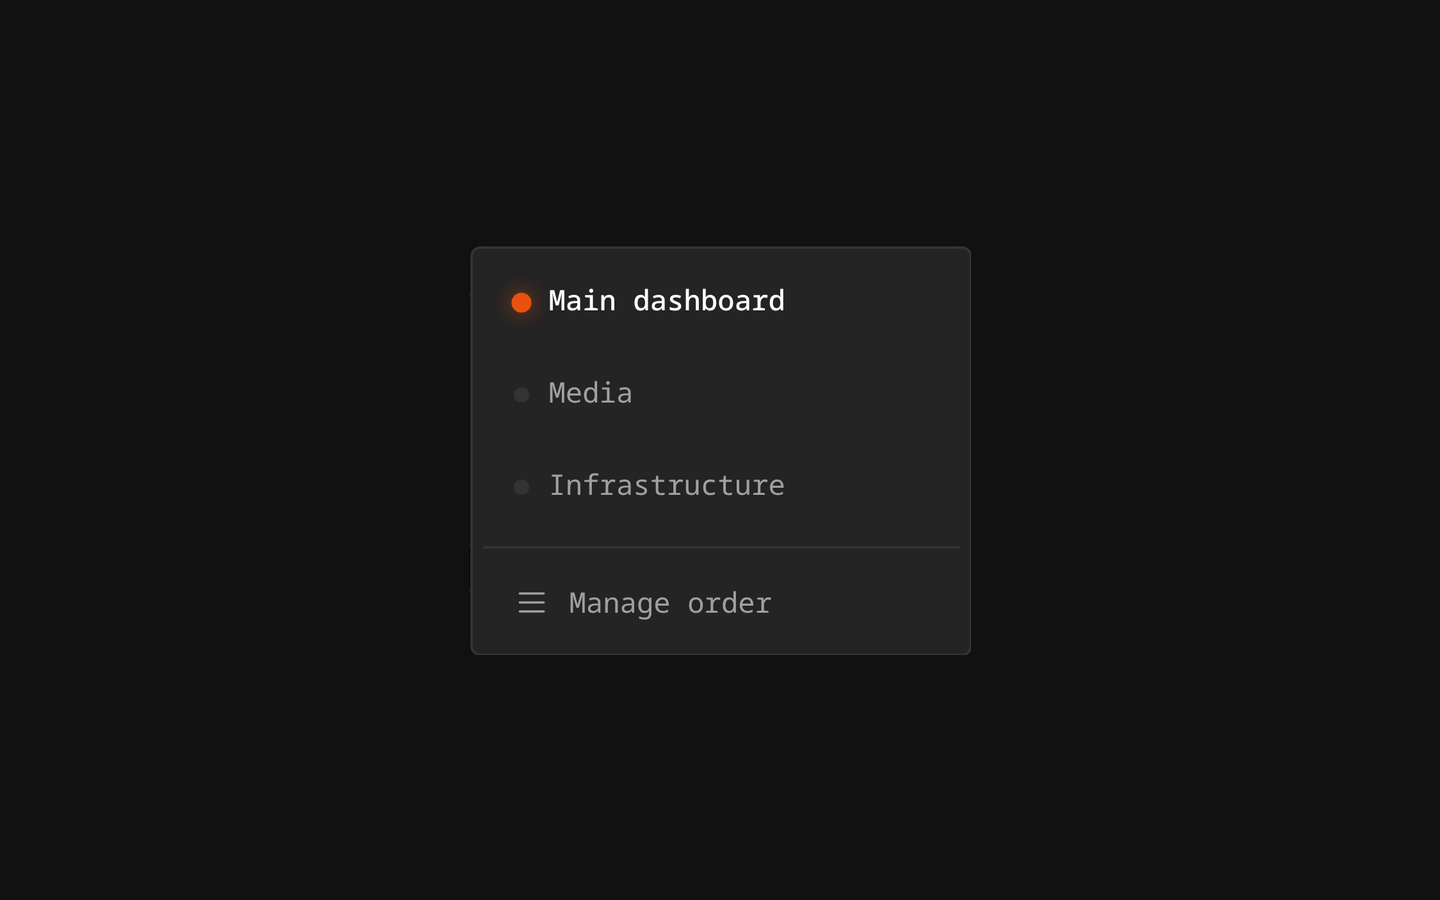
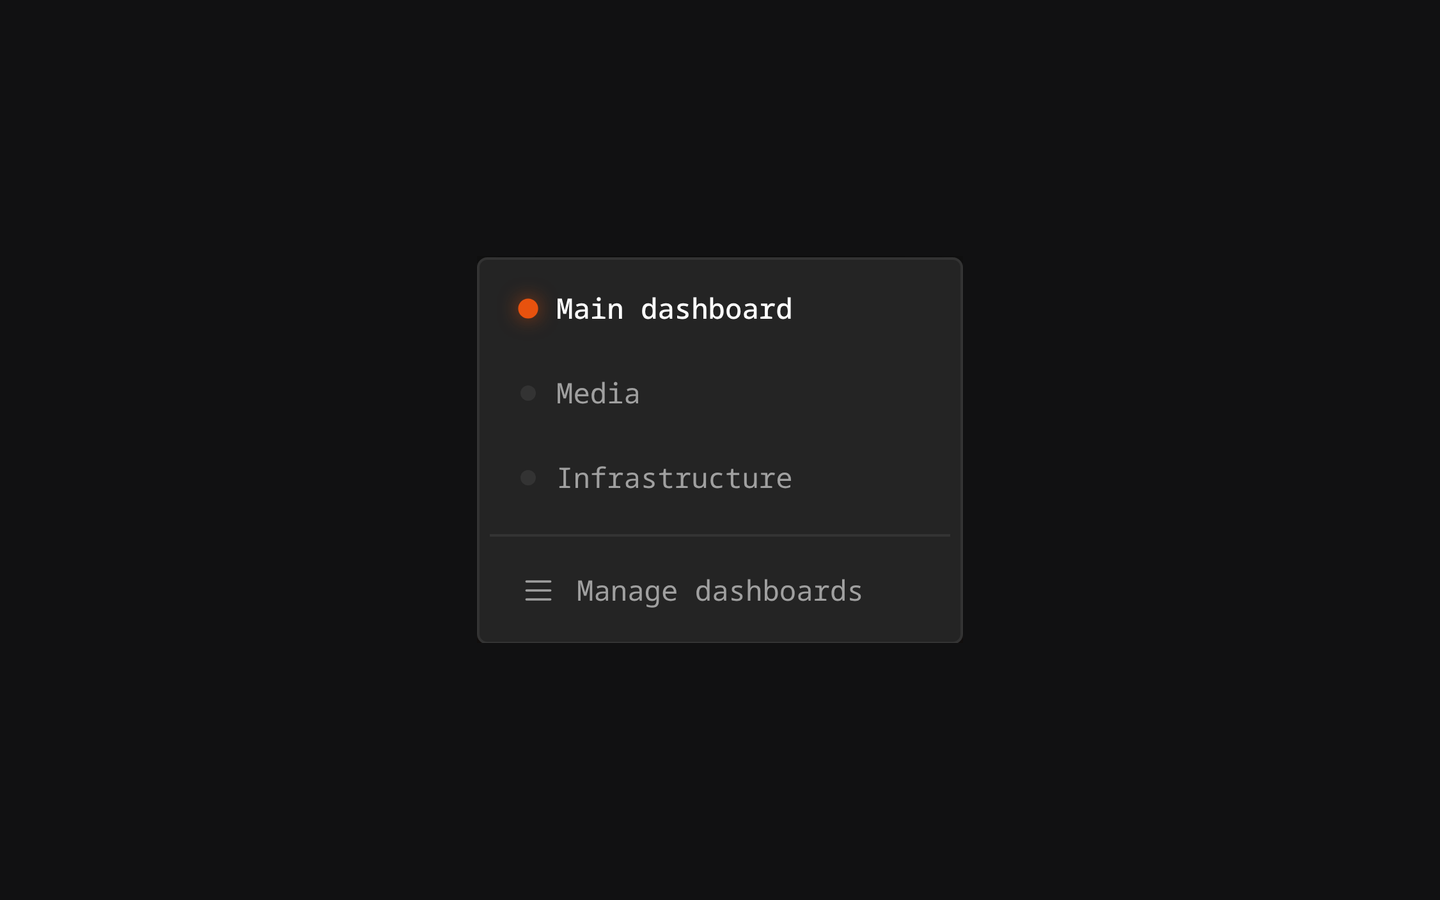
docs: captures of the dashboard manager and the remote Server Health settings, and refreshed ones

diff --git a/scripts/docs-shots.ts b/scripts/docs-shots.ts
@@ -224,6 +224,19 @@ const SHOTS: Shot[] = [
         clip: `${TOPBAR}.querySelector('dashboard-switcher').shadowRoot.querySelector('.switcher-dropdown')`,
     },
 
+    {
+        // The manager the switcher's last row opens: rename and delete beside the handle.
+        name: 'm-dashboard-manager', w: 1400, h: 800, pad: 0, wait: 700, exhibit: true, dpr: 2,
+        act: `const sw = ${TOPBAR}.querySelector('dashboard-switcher').shadowRoot;
+              sw.querySelector('.switcher-trigger').click(); await sleep(700);
+              const manage = sw.querySelector('.switcher-manage-btn');
+              if (!manage) throw new Error('the switcher has no manage button');
+              manage.click();
+              for (let i = 0; i < 25 && !document.querySelector('dashboard-manager-modal')?.shadowRoot?.querySelector('.sheet'); i++) await sleep(200);
+              await sleep(600);`,
+        clip: `document.querySelector('dashboard-manager-modal').shadowRoot.querySelector('.sheet')`,
+    },
+
     // ── Monitoring, end to end ──────────────────────────────────────────
     {
         // Opens on a service that actually went down, so the outage table and
@@ -353,6 +366,32 @@ const SHOTS: Shot[] = [
               }`,
         clip: `document.querySelector('widget-config-modal').shadowRoot.querySelector('dialog')`,
     })),
+
+    {
+        // Server Health pointed at another server: the source, its address and the test.
+        name: 'w-telemetry-conf', w: 1500, h: 980, pad: 0, wait: 900,
+        act: `${TOPBAR}.querySelector('#edit-toggle').click(); await sleep(900);
+              const grid = document.querySelector('bookmark-grid').shadowRoot;
+              const card = grid.querySelector('widget-telemetry').closest('.bookmark-grid__card');
+              const kebab = card.querySelector('.kebab-btn');
+              if (!kebab) throw new Error('no menu button on the widget-telemetry tile');
+              kebab.click(); await sleep(600);
+              grid.querySelector('#kebab-menu .menu-edit').click();
+              for (let i = 0; i < 25; i++) {
+                  const d = document.querySelector('widget-config-modal')?.shadowRoot?.querySelector('dialog');
+                  if (d && d.open) break;
+                  await sleep(200);
+              }
+              const root = document.querySelector('widget-config-modal').shadowRoot;
+              const sel = root.getElementById('telemetry-source');
+              if (!sel) throw new Error('the Server Health settings have no source selector');
+              sel.value = 'glances';
+              sel.dispatchEvent(new CustomEvent('change', { detail: 'glances', bubbles: true }));
+              await sleep(400);
+              const url = root.getElementById('tel-url');
+              url.value = 'http://192.168.1.20:61208'; await sleep(300);`,
+        clip: `document.querySelector('widget-config-modal').shadowRoot.querySelector('dialog')`,
+    },
 ];
 
 /** The starter board's hypervisor: one node, and the container a bookmark needs. */

diff --git a/docs/widgets/telemetry.md b/docs/widgets/telemetry.md
@@ -40,6 +40,8 @@ Pick **Glances**, **Netdata** or **Custom JSON** as the **Source** and enter the
 | **Netdata** | Netdata 1 and 2 | Enter the address of the agent, for example `http://192.168.1.20:19999`. |
 | **Custom JSON** | Any URL that returns JSON | You say where each number sits, such as `cpu.percent` or `sensors[0].temp`. For RAM give either the percentage, or the used and the total (in the same unit). An optional **Header name** and **Header value** carry an API key. |
 
+![Server Health settings pointed at a Glances server](../assets/w-telemetry-conf.png)
+
 **Test connection** tries what is on the form, without saving: it tells you whether the server answered, which API version it speaks, and which of the metrics you chose it does not report.
 
 - **A metric the server does not report** — the usual case is temperature on a virtual machine or a server without sensors — draws a **grey ring** with a dash, and hovering it says why. It is not drawn as 0.

diff --git a/docs/using/dashboards.md b/docs/using/dashboards.md
@@ -14,7 +14,10 @@ New dashboards are **not** created from the switcher. Enter **Edit Mode**, open 
 
 Use the **dashboard switcher** in the top bar. **Switch** — click any dashboard to open it instantly.
 
-Everything else is in **Manage dashboards**, at the bottom of the switcher. Each dashboard is a row with its own buttons beside the drag handle, always visible (so a finger on a tablet never hits one by accident):
+Everything else is in **Manage dashboards**, at the bottom of the switcher.
+
+![Manage dashboards](../assets/m-dashboard-manager.png)
+ Each dashboard is a row with its own buttons beside the drag handle, always visible (so a finger on a tablet never hits one by accident):
 
 - **Rename** — the pencil.
 - **Delete** — the bin: it asks first, removes the dashboard and everything on it, and is switched off for the last one, since you always keep at least one.
